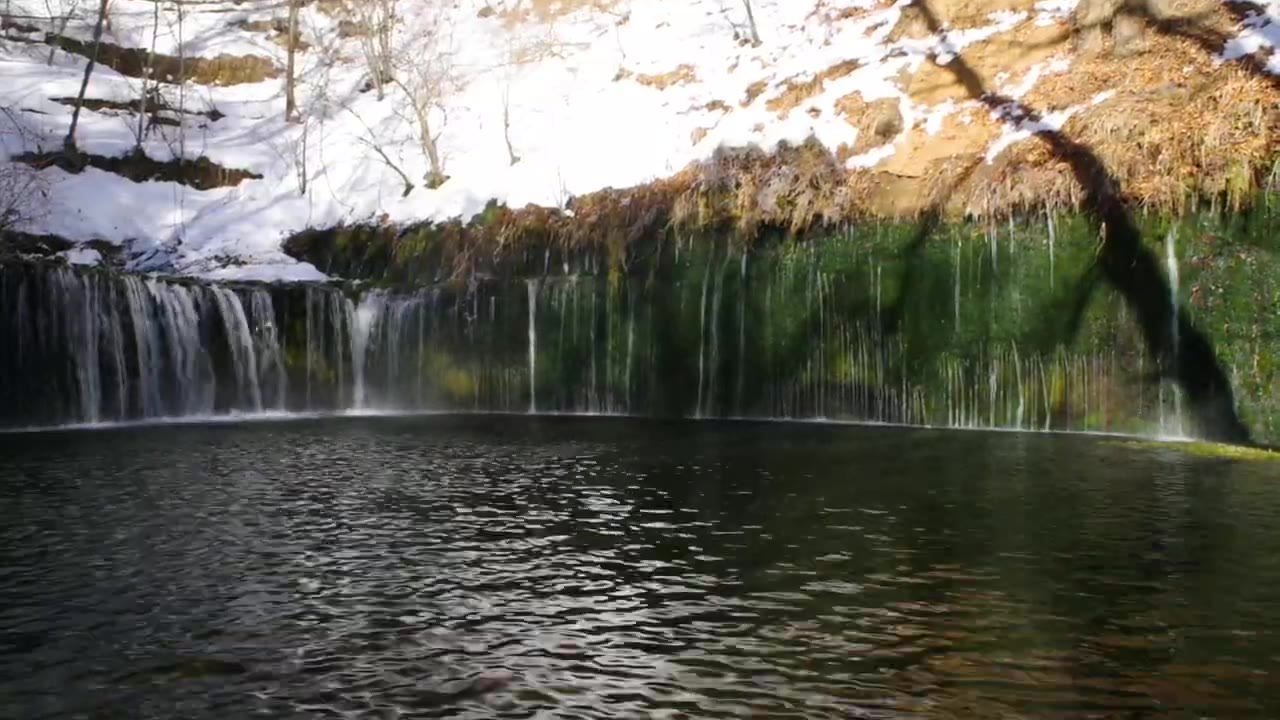
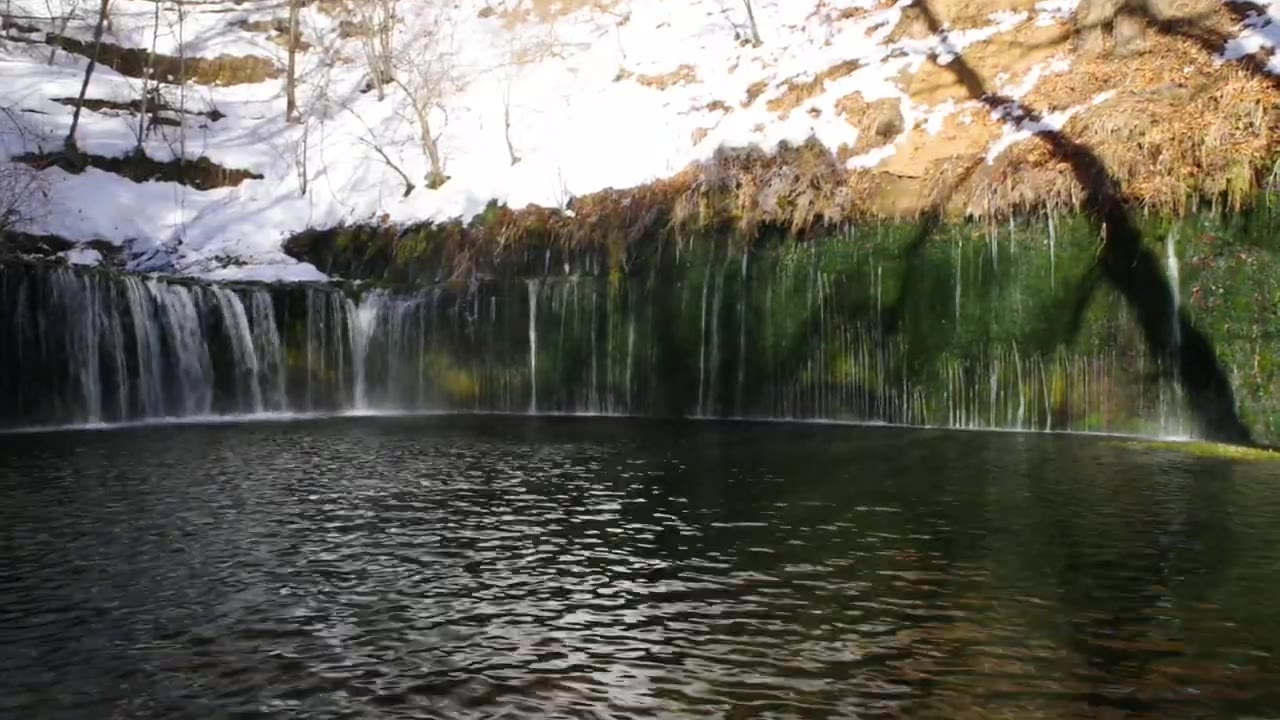
Restore looping hero video as primary underlay
Keep krisumi-hero.mp4 always visible under VR; probe tiles before
mounting the iframe; harden HeroVideo autoplay (preload=auto, muted
retry). Poster remains fallback-only for reduced motion.

diff --git a/src/components/hero-vr.tsx b/src/components/hero-vr.tsx
@@ -9,55 +9,79 @@ import { HeroVideo } from "@/components/hero-video";
  */
 const VR_BASE = "/hero/vr";
 const VR_SRC = `${VR_BASE}/index.html`;
+/** Small probe assets — prefer a real tile so a thin zip without tiles fails closed to video. */
+const VR_PROBE_XML = `${VR_BASE}/pano.xml`;
+const VR_PROBE_TILE = `${VR_BASE}/tiles/node2/cf_0/l_0/c_0/tile_0.jpg`;
 /** Abort VR attempt if the tour has not become usable by this deadline. */
-const VR_LOAD_TIMEOUT_MS = 6000;
+const VR_LOAD_TIMEOUT_MS = 8000;
+/** Extra settle after iframe onLoad so Pano2VR can paint before we promote VR. */
+const VR_PAINT_GRACE_MS = 1800;
 
-type HeroMode = "pending" | "vr" | "fallback";
+type HeroMode = "video" | "vr";
 
 /**
- * Full-bleed hero media: try the local 360° VR iframe, fall back to local video.
- * Video/poster paint immediately so LCP and desktop preview are never blocked
- * by a hung tour load.
+ * Full-bleed hero media: local looping video always paints first and stays mounted.
+ * VR iframe may enhance on top only after assets + iframe settle; if anything
+ * fails (or tiles are absent from a thin zip), video remains the visible hero.
  */
 export function HeroVr() {
-  const [mode, setMode] = useState<HeroMode>("pending");
+  const [mode, setMode] = useState<HeroMode>("video");
   const [mountIframe, setMountIframe] = useState(false);
-  const settledRef = useRef(false);
+  const promotedRef = useRef(false);
+  const abandonedRef = useRef(false);
+  const paintTimerRef = useRef<number | null>(null);
+  const abandonTimerRef = useRef<number | null>(null);
 
   useEffect(() => {
-    const settle = (next: HeroMode) => {
-      if (settledRef.current) return;
-      settledRef.current = true;
-      setMode(next);
-      if (next === "fallback") setMountIframe(false);
+    const abandonVr = () => {
+      if (promotedRef.current) return;
+      abandonedRef.current = true;
+      setMode("video");
+      setMountIframe(false);
+      if (paintTimerRef.current != null) {
+        window.clearTimeout(paintTimerRef.current);
+        paintTimerRef.current = null;
+      }
     };
 
     const controller = new AbortController();
-    const timer = window.setTimeout(() => {
+    abandonTimerRef.current = window.setTimeout(() => {
       controller.abort();
-      settle("fallback");
+      abandonVr();
     }, VR_LOAD_TIMEOUT_MS);
 
-    // Reachability probe for local tour assets (pano.xml is small + cacheable).
-    fetch(`${VR_BASE}/pano.xml`, {
-      method: "GET",
-      cache: "force-cache",
-      signal: controller.signal,
-    })
-      .then((res) => {
-        if (settledRef.current) return;
-        if (!res.ok) {
-          settle("fallback");
+    // Require both config + a sample tile so missing tile packs never promote VR.
+    Promise.all([
+      fetch(VR_PROBE_XML, {
+        method: "GET",
+        cache: "force-cache",
+        signal: controller.signal,
+      }),
+      fetch(VR_PROBE_TILE, {
+        method: "GET",
+        cache: "force-cache",
+        signal: controller.signal,
+      }),
+    ])
+      .then(([xmlRes, tileRes]) => {
+        if (abandonedRef.current || promotedRef.current) return;
+        if (!xmlRes.ok || !tileRes.ok) {
+          abandonVr();
           return;
         }
         setMountIframe(true);
       })
       .catch(() => {
-        settle("fallback");
+        abandonVr();
       });
 
     return () => {
-      window.clearTimeout(timer);
+      if (abandonTimerRef.current != null) {
+        window.clearTimeout(abandonTimerRef.current);
+      }
+      if (paintTimerRef.current != null) {
+        window.clearTimeout(paintTimerRef.current);
+      }
       controller.abort();
     };
   }, []);
@@ -66,33 +90,48 @@ export function HeroVr() {
 
   return (
     <>
-      {/* Local media always present for instant paint / fallback */}
+      {/*
+        Local video+poster always remain mounted and fully opaque under any VR
+        attempt. Missing tiles never promote the iframe (probe fails → video only).
+        When VR does promote, the iframe sits above; video stays as a live underlay
+        so we never blank the hero to pure black / poster-only while waiting on VR.
+      */}
       <HeroVideo
         src="/hero/krisumi-hero.mp4"
         poster="/hero/krisumi-hero-poster.jpg"
-        className={`absolute inset-0 z-0 h-full w-full object-cover hero-video-zoom transition-opacity duration-500 ${
-          showVr ? "opacity-0" : "opacity-100"
-        }`}
+        className="absolute inset-0 z-0 h-full w-full object-cover hero-video-zoom"
       />
 
       {mountIframe ? (
         <iframe
           src={VR_SRC}
-          className={`absolute inset-0 z-0 h-full w-full border-0 transition-opacity duration-500 ${
+          className={`absolute inset-0 z-[1] h-full w-full border-0 bg-transparent transition-opacity duration-700 ${
             showVr ? "opacity-100" : "pointer-events-none opacity-0"
           }`}
           title="Krisumi 360° Virtual Tour"
           allow="accelerometer; gyroscope; xr-spatial-tracking"
           loading="eager"
           onLoad={() => {
-            if (settledRef.current) return;
-            settledRef.current = true;
-            setMode("vr");
+            if (abandonedRef.current || promotedRef.current) return;
+            // Give Pano2VR time to paint; clear the hard abandon so grace can finish.
+            if (abandonTimerRef.current != null) {
+              window.clearTimeout(abandonTimerRef.current);
+              abandonTimerRef.current = null;
+            }
+            if (paintTimerRef.current != null) {
+              window.clearTimeout(paintTimerRef.current);
+            }
+            paintTimerRef.current = window.setTimeout(() => {
+              if (abandonedRef.current || promotedRef.current) return;
+              promotedRef.current = true;
+              setMode("vr");
+              paintTimerRef.current = null;
+            }, VR_PAINT_GRACE_MS);
           }}
           onError={() => {
-            if (settledRef.current) return;
-            settledRef.current = true;
-            setMode("fallback");
+            if (promotedRef.current) return;
+            abandonedRef.current = true;
+            setMode("video");
             setMountIframe(false);
           }}
         />

diff --git a/src/app/page.tsx b/src/app/page.tsx
@@ -10,15 +10,15 @@ export default function HomePage() {
   return (
     <>
       <section className="relative min-h-[100svh] overflow-hidden text-white">
-        {/* Local video paints immediately; VR iframe swaps in only if it loads in time */}
+        {/* Local looping video paints immediately; VR may enhance only after a safe settle */}
         <HeroVr />
 
-        {/* Gradient overlays for readability */}
-        <div className="pointer-events-none absolute inset-0 z-[1] bg-[linear-gradient(180deg,rgba(15,22,28,0.65)_0%,rgba(15,22,28,0.25)_42%,rgba(15,22,28,0.78)_100%)]" />
-        <div className="pointer-events-none absolute inset-0 z-[1] bg-[radial-gradient(ellipse_at_center,transparent_0%,rgba(15,22,28,0.55)_100%)]" />
+        {/* Gradient overlays for readability — above video/VR (iframe is z-[1]) */}
+        <div className="pointer-events-none absolute inset-0 z-[2] bg-[linear-gradient(180deg,rgba(15,22,28,0.65)_0%,rgba(15,22,28,0.25)_42%,rgba(15,22,28,0.78)_100%)]" />
+        <div className="pointer-events-none absolute inset-0 z-[2] bg-[radial-gradient(ellipse_at_center,transparent_0%,rgba(15,22,28,0.55)_100%)]" />
 
         {/* Wrapper passes clicks through to VR when active; panel restores CTA hit targets */}
-        <div className="pointer-events-none relative z-[2] mx-auto flex min-h-[100svh] max-w-5xl flex-col items-center justify-center px-4 pb-28 pt-28 text-center sm:px-6 sm:pb-24">
+        <div className="pointer-events-none relative z-[3] mx-auto flex min-h-[100svh] max-w-5xl flex-col items-center justify-center px-4 pb-28 pt-28 text-center sm:px-6 sm:pb-24">
           <div className="hero-cue-group pointer-events-auto max-w-3xl">
             <p className="hero-cue font-display text-5xl tracking-tight text-white drop-shadow-[0_2px_24px_rgba(0,0,0,0.45)] sm:text-6xl md:text-7xl">
               {site.name}

diff --git a/src/components/hero-video.tsx b/src/components/hero-video.tsx
@@ -8,6 +8,10 @@ type HeroVideoProps = {
   className?: string;
 };
 
+/**
+ * Looping muted hero video. Poster is a fallback only (reduced motion / autoplay
+ * failure) — the <video> element is what paints for normal visitors.
+ */
 export function HeroVideo({ src, poster, className }: HeroVideoProps) {
   const videoRef = useRef<HTMLVideoElement>(null);
   const [reduceMotion, setReduceMotion] = useState(false);
@@ -21,6 +25,7 @@ export function HeroVideo({ src, poster, className }: HeroVideoProps) {
       if (media.matches) {
         el.pause();
       } else {
+        el.muted = true;
         void el.play().catch(() => {
           /* Autoplay can fail on some browsers; poster remains visible. */
         });
@@ -30,6 +35,26 @@ export function HeroVideo({ src, poster, className }: HeroVideoProps) {
     media.addEventListener("change", apply);
     return () => media.removeEventListener("change", apply);
   }, []);
+
+  // Retry play once the element can start (handles late hydration / decode).
+  useEffect(() => {
+    if (reduceMotion) return;
+    const el = videoRef.current;
+    if (!el) return;
+
+    const tryPlay = () => {
+      el.muted = true;
+      void el.play().catch(() => {});
+    };
+
+    tryPlay();
+    el.addEventListener("loadeddata", tryPlay);
+    el.addEventListener("canplay", tryPlay);
+    return () => {
+      el.removeEventListener("loadeddata", tryPlay);
+      el.removeEventListener("canplay", tryPlay);
+    };
+  }, [reduceMotion, src]);
 
   if (reduceMotion) {
     return (
@@ -52,7 +77,7 @@ export function HeroVideo({ src, poster, className }: HeroVideoProps) {
       muted
       loop
       playsInline
-      preload="metadata"
+      preload="auto"
       poster={poster}
       aria-hidden
     >
